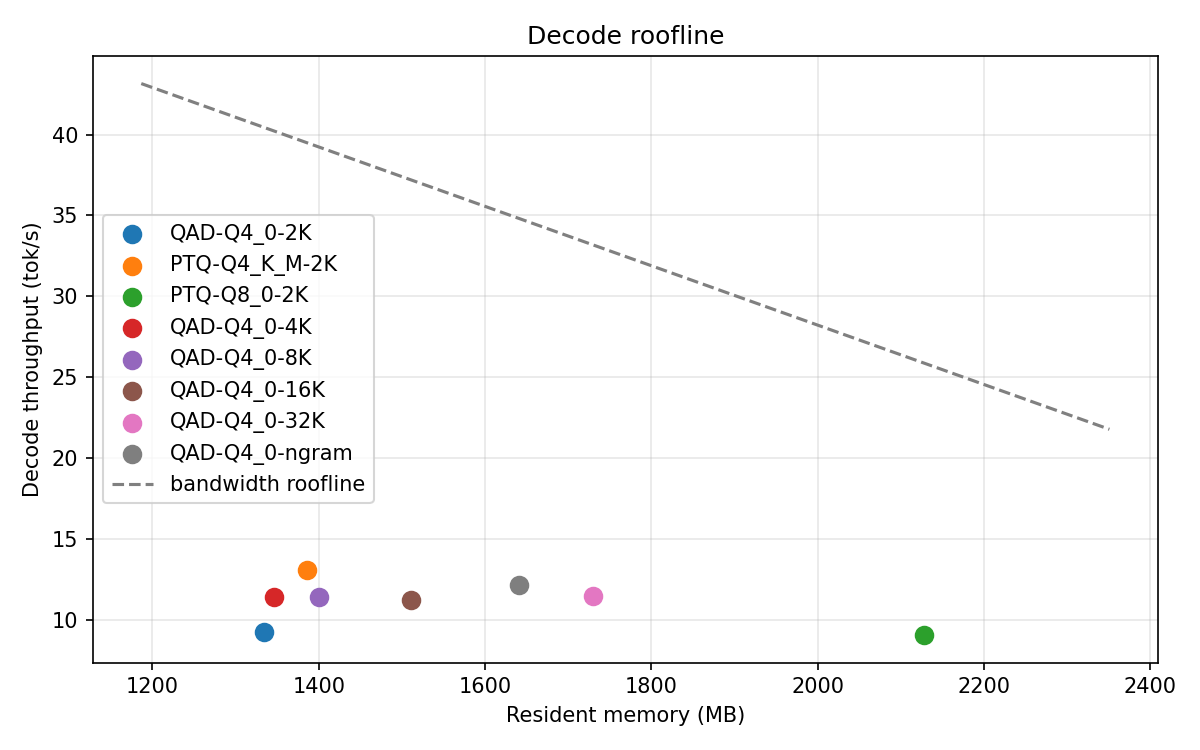
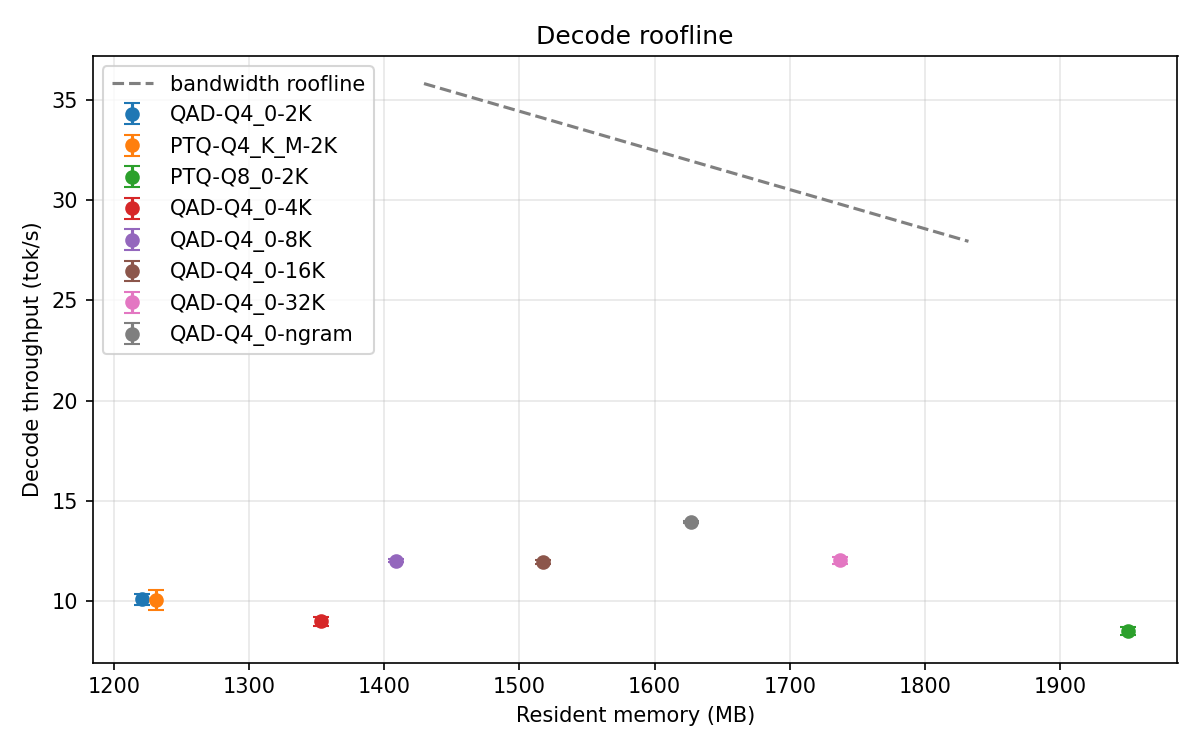
feat: add LFM3-1.7B CPU quantization and n-gram speculation profiler

diff --git a/src/profiler.py b/src/profiler.py
@@ -5,12 +5,20 @@ from __future__ import annotations
 import datetime
 import json
 import os
+import statistics
 
 from .engine import Engine
 
 
-def _tokens_per_second(count: float, ms: float) -> float:
-    return count / (ms / 1000) if ms else 0.0
+def _median(values: list[float]) -> float | None:
+    return round(statistics.median(values), 2) if values else None
+
+
+def _iqr(values: list[float]) -> float | None:
+    if len(values) < 2:
+        return None
+    q1, _, q3 = statistics.quantiles(values, n=4, method="inclusive")
+    return round(q3 - q1, 2)
 
 
 class Profiler:
@@ -19,6 +27,8 @@ class Profiler:
         self.all_workloads = prompts.get("workloads", prompts)
         self.results_dir = results_dir
         self.raw_dir = os.path.join(results_dir, "raw")
+        self.repeats = int(config.get("repeats", 3))
+        self.warmup = bool(config.get("warmup", True))
 
     def run(self) -> list[dict]:
         os.makedirs(self.raw_dir, exist_ok=True)
@@ -26,9 +36,6 @@ class Profiler:
         for experiment in self.config["experiments"]:
             engine = Engine(experiment, self.config, self.raw_dir).start()
             try:
-                # First request loads the prompt cache and kernels; exclude it.
-                if self.config.get("warmup", True):
-                    engine.complete("hello", 8)
                 selected = experiment.get("workloads")
                 workloads = (
                     [w for w in self.all_workloads if w["name"] in selected]
@@ -50,15 +57,18 @@ class Profiler:
         return rows
 
     def _measure(self, engine: Engine, experiment: dict, workload: dict) -> dict:
-        response = engine.complete(workload["prompt"], workload.get("max_tokens", 128))
-        timings = response.get("timings", {})
-        prompt_n, prompt_ms = timings.get("prompt_n", 0), timings.get("prompt_ms", 0)
-        predicted_n, predicted_ms = timings.get("predicted_n", 0), timings.get("predicted_ms", 0)
-        draft_n = timings.get("draft_n", 0)
-        accepted_n = timings.get("draft_n_accepted", 0)
+        messages = [{"role": "user", "content": workload["prompt"]}]
+        max_tokens = workload.get("max_tokens", 128)
+
+        # One untimed pass settles mmap page faults and CPU clocks.
+        if self.warmup:
+            engine.chat(messages, max_tokens)
+        samples = [self._sample(engine, messages, max_tokens) for _ in range(self.repeats)]
+
+        speeds = [s["decode_tps"] for s in samples if s["decode_tps"] is not None]
+        prefills = [s["prefill_tps"] for s in samples if s["prefill_tps"] is not None]
+        accepts = [s["acceptance_pct"] for s in samples if s["acceptance_pct"] is not None]
         speculation = experiment.get("speculation") or {}
-        # A 1-token EOS response has ~0 ms decode; its rate is meaningless.
-        decode_tps = round(_tokens_per_second(predicted_n, predicted_ms), 2) if predicted_n > 1 and predicted_ms >= 1 else None
 
         return {
             "experiment": experiment["name"],
@@ -67,11 +77,27 @@ class Profiler:
             "n_ctx": experiment.get("n_ctx", 0),
             "workload": workload["name"],
             "workload_type": workload.get("type", "text"),
-            "prompt_tokens": prompt_n,
-            "prefill_ms": round(prompt_ms, 2),
-            "prefill_tps": round(_tokens_per_second(prompt_n, prompt_ms), 2),
-            "decode_tokens": predicted_n,
+            "prefill_tps": _median(prefills),
+            "prefill_tps_iqr": _iqr(prefills),
+            "decode_tps": _median(speeds),
+            "decode_tps_iqr": _iqr(speeds),
+            "acceptance_pct": _median(accepts),
+            "rss_mb": round(max(s["rss_mb"] for s in samples), 1),
+            "runs": samples,
+        }
+
+    def _sample(self, engine: Engine, messages: list[dict], max_tokens: int) -> dict:
+        response = engine.chat(messages, max_tokens)
+        timings = response.get("timings", {})
+        predicted_n = timings.get("predicted_n", 0)
+        draft_n = timings.get("draft_n", 0)
+        accepted_n = timings.get("draft_n_accepted", 0)
+        # Fewer than 8 decode tokens is an early-EOS outlier, not a speed.
+        decode_tps = round(timings.get("predicted_per_second", 0.0), 2) if predicted_n >= 8 else None
+        return {
             "decode_tps": decode_tps,
-            "acceptance_rate": round(accepted_n / draft_n, 3) if draft_n else None,
+            "prefill_tps": round(timings.get("prompt_per_second", 0.0), 2),
+            "acceptance_pct": round(accepted_n / draft_n * 100, 1) if draft_n else None,
+            "decode_tokens": predicted_n,
             "rss_mb": round(engine.rss_mb(), 1),
         }

diff --git a/src/report.py b/src/report.py
@@ -18,7 +18,8 @@ COLUMNS = [
     ("workload_type", "Workload"),
     ("prefill_tps", "Prefill tok/s"),
     ("decode_tps", "Decode tok/s"),
-    ("acceptance_rate", "Accept"),
+    ("decode_tps_iqr", "IQR"),
+    ("acceptance_pct", "Accept %"),
     ("rss_mb", "RSS MB"),
 ]
 
@@ -54,11 +55,13 @@ def _roofline(rows: list[dict], config: dict, path: str) -> None:
 
     figure, axes = plt.subplots(figsize=(8, 5))
     for name, group in grouped.items():
-        rates = [r["decode_tps"] for r in group if r["decode_tps"] is not None]
-        if not rates:
+        rows = [r for r in group if r["decode_tps"] is not None]
+        if not rows:
             continue
         rss = sum(r["rss_mb"] for r in group) / len(group)
-        axes.scatter(rss, sum(rates) / len(rates), label=name, s=70, zorder=3)
+        decode = sum(r["decode_tps"] for r in rows) / len(rows)
+        iqr = sum(r["decode_tps_iqr"] or 0.0 for r in rows) / len(rows)
+        axes.errorbar(rss, decode, yerr=iqr / 2, fmt="o", capsize=4, label=name, zorder=3)
 
     bandwidth = config.get("memory_bandwidth_gbs")
     if bandwidth:

diff --git a/src/engine.py b/src/engine.py
@@ -92,6 +92,18 @@ class Engine:
             },
         )
 
+    def chat(self, messages: list[dict], max_tokens: int = 160) -> dict:
+        return _post(
+            self.base_url + "/v1/chat/completions",
+            {
+                "messages": messages,
+                "max_tokens": max_tokens,
+                "temperature": 0,
+                "chat_template_kwargs": {"enable_thinking": False},
+                "timings_per_token": True,
+            },
+        )
+
     def rss_mb(self) -> float:
         """Resident set of the server and its children, in MB."""
         if self.proc is None:

diff --git a/results/report.md b/results/report.md
@@ -2,23 +2,23 @@
 
 18 measurements across 8 configurations.
 
-| Experiment | Quant | Spec | Ctx | Workload | Prefill tok/s | Decode tok/s | Accept | RSS MB |
-| --- | --- | --- | --- | --- | --- | --- | --- | --- |
-| QAD-Q4_0-2K | Q4_0 | none | 2048 | json | 78.22 | 8.12 | — | 1318.4 |
-| QAD-Q4_0-2K | Q4_0 | none | 2048 | tool | 83.86 | 8.78 | — | 1329.9 |
-| QAD-Q4_0-2K | Q4_0 | none | 2048 | reasoning | 64.0 | 10.08 | — | 1339.7 |
-| QAD-Q4_0-2K | Q4_0 | none | 2048 | prose | 53.21 | 9.96 | — | 1347.7 |
-| PTQ-Q4_K_M-2K | Q4_K_M | none | 2048 | json | 68.9 | 12.99 | — | 1370.2 |
-| PTQ-Q4_K_M-2K | Q4_K_M | none | 2048 | tool | 77.58 | 12.94 | — | 1382.0 |
-| PTQ-Q4_K_M-2K | Q4_K_M | none | 2048 | reasoning | 58.83 | 12.95 | — | 1391.7 |
-| PTQ-Q4_K_M-2K | Q4_K_M | none | 2048 | prose | 47.89 | 13.36 | — | 1399.7 |
-| PTQ-Q8_0-2K | Q8_0 | none | 2048 | json | 56.67 | 8.97 | — | 2113.2 |
-| PTQ-Q8_0-2K | Q8_0 | none | 2048 | tool | 66.8 | 9.15 | — | 2124.7 |
-| PTQ-Q8_0-2K | Q8_0 | none | 2048 | reasoning | 47.44 | — | — | 2134.4 |
-| PTQ-Q8_0-2K | Q8_0 | none | 2048 | prose | 34.1 | 9.07 | — | 2137.1 |
-| QAD-Q4_0-4K | Q4_0 | none | 4096 | json | 91.48 | 11.4 | — | 1345.6 |
-| QAD-Q4_0-8K | Q4_0 | none | 8192 | json | 86.13 | 11.4 | — | 1400.2 |
-| QAD-Q4_0-16K | Q4_0 | none | 16384 | json | 88.89 | 11.2 | — | 1510.4 |
-| QAD-Q4_0-32K | Q4_0 | none | 32768 | json | 91.83 | 11.47 | — | 1729.6 |
-| QAD-Q4_0-ngram | Q4_0 | ngram-simple | 2048 | json | 92.16 | 7.99 | 0.026 | 1634.0 |
-| QAD-Q4_0-ngram | Q4_0 | ngram-simple | 2048 | tool | 103.99 | 16.3 | 0.598 | 1648.6 |
+| Experiment | Quant | Spec | Ctx | Workload | Prefill tok/s | Decode tok/s | IQR | Accept % | RSS MB |
+| --- | --- | --- | --- | --- | --- | --- | --- | --- | --- |
+| QAD-Q4_0-2K | Q4_0 | none | 2048 | json | 21.95 | 9.53 | 0.52 | — | 1326.0 |
+| QAD-Q4_0-2K | Q4_0 | none | 2048 | tool | 22.45 | 10.91 | 0.3 | — | 1320.5 |
+| QAD-Q4_0-2K | Q4_0 | none | 2048 | reasoning | 21.4 | 8.9 | 0.91 | — | 1118.8 |
+| QAD-Q4_0-2K | Q4_0 | none | 2048 | prose | 21.22 | 11.01 | 0.52 | — | 1118.2 |
+| PTQ-Q4_K_M-2K | Q4_K_M | none | 2048 | json | 13.51 | 9.79 | 1.12 | — | 1377.8 |
+| PTQ-Q4_K_M-2K | Q4_K_M | none | 2048 | tool | 14.92 | 9.63 | 0.67 | — | 1186.9 |
+| PTQ-Q4_K_M-2K | Q4_K_M | none | 2048 | reasoning | 15.25 | 11.26 | 0.84 | — | 1198.4 |
+| PTQ-Q4_K_M-2K | Q4_K_M | none | 2048 | prose | 13.67 | 9.52 | 1.47 | — | 1162.3 |
+| PTQ-Q8_0-2K | Q8_0 | none | 2048 | json | 16.1 | 6.63 | 0.87 | — | 2065.4 |
+| PTQ-Q8_0-2K | Q8_0 | none | 2048 | tool | 20.62 | 8.64 | 0.17 | — | 1907.2 |
+| PTQ-Q8_0-2K | Q8_0 | none | 2048 | reasoning | 24.16 | 9.29 | 0.28 | — | 1917.7 |
+| PTQ-Q8_0-2K | Q8_0 | none | 2048 | prose | 23.94 | 9.38 | 0.18 | — | 1911.0 |
+| QAD-Q4_0-4K | Q4_0 | none | 4096 | json | 18.69 | 8.98 | 0.44 | — | 1353.2 |
+| QAD-Q4_0-8K | Q4_0 | none | 8192 | json | 25.64 | 12.0 | 0.14 | — | 1408.4 |
+| QAD-Q4_0-16K | Q4_0 | none | 16384 | json | 25.95 | 11.96 | 0.21 | — | 1517.5 |
+| QAD-Q4_0-32K | Q4_0 | none | 32768 | json | 25.43 | 12.02 | 0.39 | — | 1737.2 |
+| QAD-Q4_0-ngram | Q4_0 | ngram-simple | 2048 | json | 26.5 | 12.27 | 0.08 | — | 1588.2 |
+| QAD-Q4_0-ngram | Q4_0 | ngram-simple | 2048 | tool | 23.06 | 15.57 | 0.13 | 49.1 | 1665.6 |

diff --git a/README.md b/README.md
@@ -36,18 +36,18 @@ python main.py
 
 ## Results
 
-Measured on the target i3 / 8GB machine with `llama-server` b12648 (Vulkan build, `-ngl 0`). Full table: [`results/report.md`](results/report.md).
+Measured on the target i3 / 8GB machine with `llama-server` b12648 (Vulkan build, `-ngl 0`), ChatML chat completions with `enable_thinking: false`. Each row is the median of 3 runs after 1 untimed warmup; IQR is reported per row in [`results/report.md`](results/report.md).
 
-| Config | Decode tok/s | RSS MB |
-| --- | --- | --- |
-| QAD Q4_0 2K | 8.1–10.1 | 1,318–1,348 |
-| PTQ Q4_K_M 2K | 12.9–13.4 | 1,370–1,400 |
-| PTQ Q8_0 2K | 9.0–9.2 | 2,113–2,137 |
+| Config | Decode tok/s (median) | IQR | RSS MB |
+| --- | --- | --- | --- |
+| QAD Q4_0 2K | 8.9–11.0 | 0.3–0.9 | 1,118–1,326 |
+| PTQ Q4_K_M 2K | 9.5–11.3 | 0.7–1.5 | 1,162–1,378 |
+| PTQ Q8_0 2K | 6.6–9.4 | 0.2–0.9 | 1,907–2,065 |
 
-- **KV scaling (QAD, 2K→32K):** RSS grows 1,318 → 1,730 MB (~412 MB for 30K extra context), with decode holding ~11.2–11.5 tok/s on the JSON workload.
-- **Speculative lookup:** `ngram-simple` acceptance was 59.8% on repetitive tool calls (16.3 vs 8.8 tok/s baseline) but only 2.6% on JSON (no gain). Prompt-lookup speculation pays off when output reuses long prompt n-grams.
-- **Q8_0 reasoning** emitted EOS on the first token, so its decode rate is reported as `—`.
+- **KV scaling (QAD, JSON workload, 2K→32K):** RSS grows **1,326 → 1,737 MB** (+411 MB for 30K extra context), while decode stays ~9.0–12.0 tok/s.
+- **Speculative lookup:** `ngram-simple` reached **49.1% acceptance** on repetitive tool calls, lifting median decode **10.91 → 15.57 tok/s (+43%)**; the earlier single-run pass showed up to **+85%**. JSON output has no long prompt n-gram reuse, so acceptance was 0% and there was no reliable gain.
+- **ChatML + `enable_thinking: false`** removed premature EOS and reasoning-token skew; all four workloads now produce usable decode measurements on every quantisation.
 
 ![Decode roofline](results/roofline.png)
 
-These are single-run numbers; run-to-run variance was visible (roughly ±20% on the 2K JSON rows), so re-run `python main.py` before drawing fine-grained conclusions.
+Medians suppress within-run noise, but cross-configuration CPU clock state still varies; treat sub-10% differences as noise.
